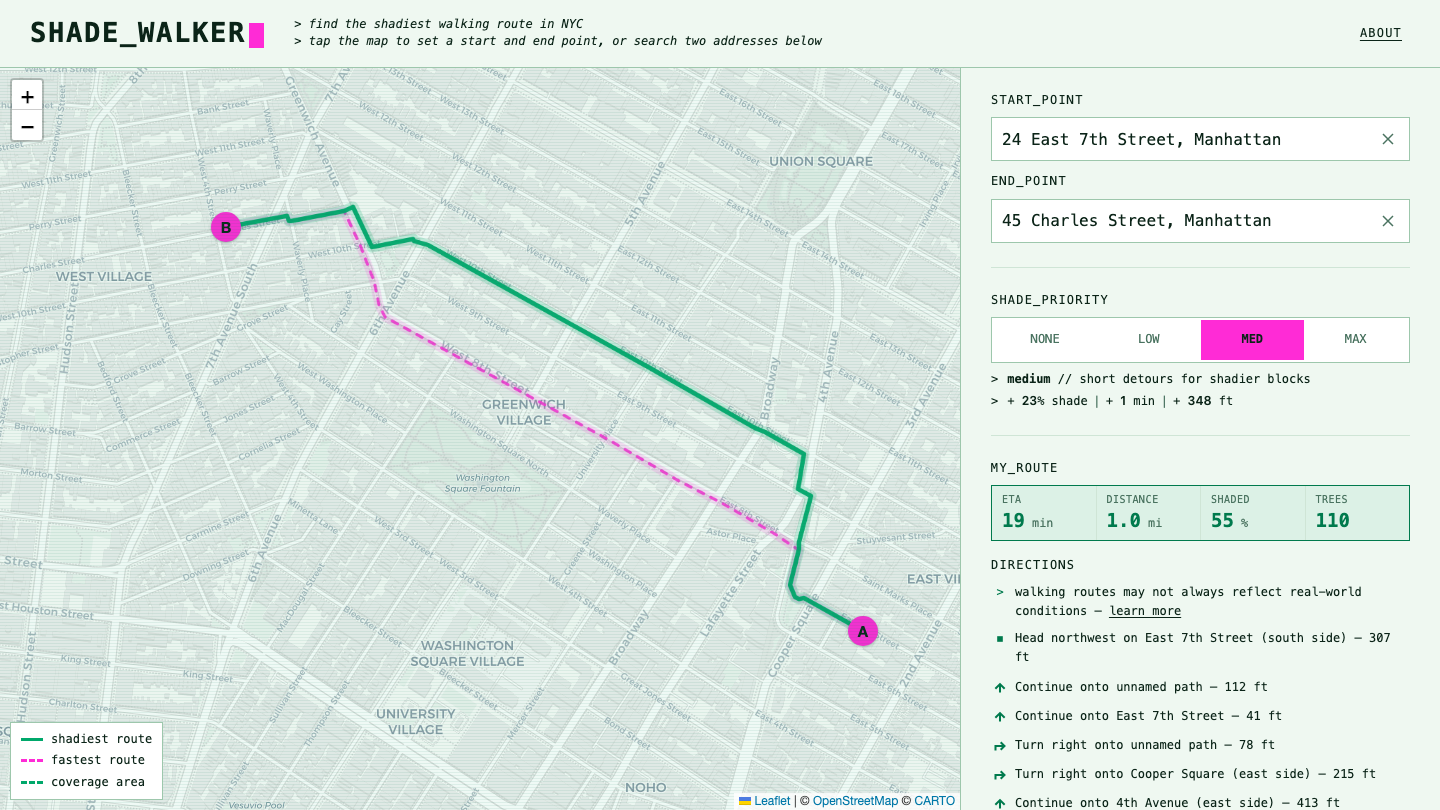
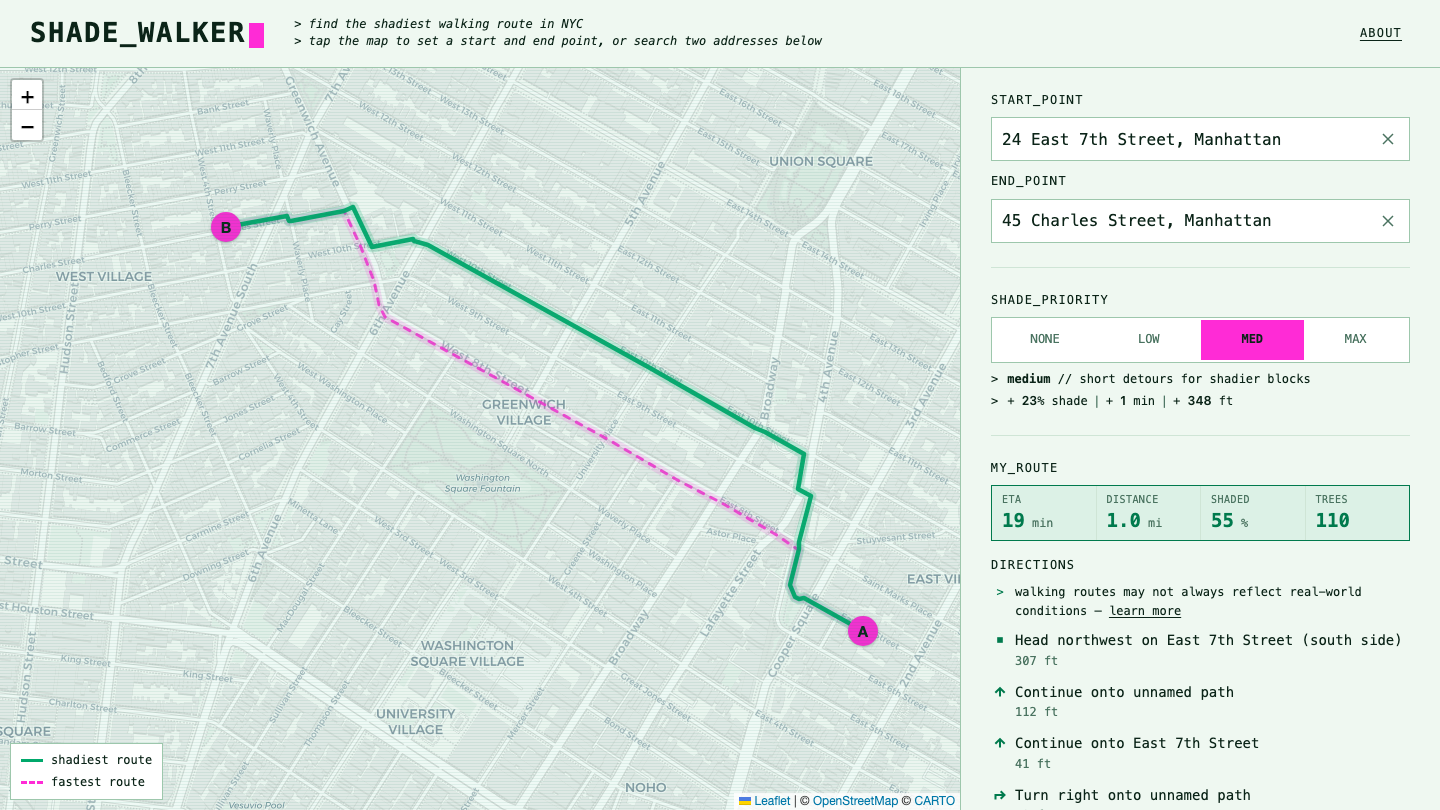
Retake the share card and README screenshots for the new panel
Same East 7th St -> Charles St MED route, same 19/1.0/55/110 stats.
The old captures were already stale before this branch: their legend
still showed the coverage-area row deleted in PR #76. README alt text
numbers corrected to match (had said 20/113 since PR #62).

Changed region(s): [[0.6875, 0.7716, 0.9688, 1.0], [0.0, 0.8642, 0.125, 0.9877]]

diff --git a/README.md b/README.md
@@ -4,7 +4,7 @@
 shade priority; get the walk that keeps you under the tree canopy — with the
 routing cost of the shade (extra minutes, extra distance) shown.
 
-![The Shade Walker app on a Greenwich Village route: the shadiest walk (solid green) splits from the fastest (dashed pink), with the walk's stats beside the map — 20 min, 1.0 mi, 55% shaded, 113 trees.](docs/screenshot.png)
+![The Shade Walker app on a Greenwich Village route: the shadiest walk (solid green) splits from the fastest (dashed pink), with the walk's stats beside the map — 19 min, 1.0 mi, 55% shaded, 110 trees.](docs/screenshot.png)
 
 Built on three public datasets: OpenStreetMap's pedestrian network, the
 live NYC Tree Map, and the city's
